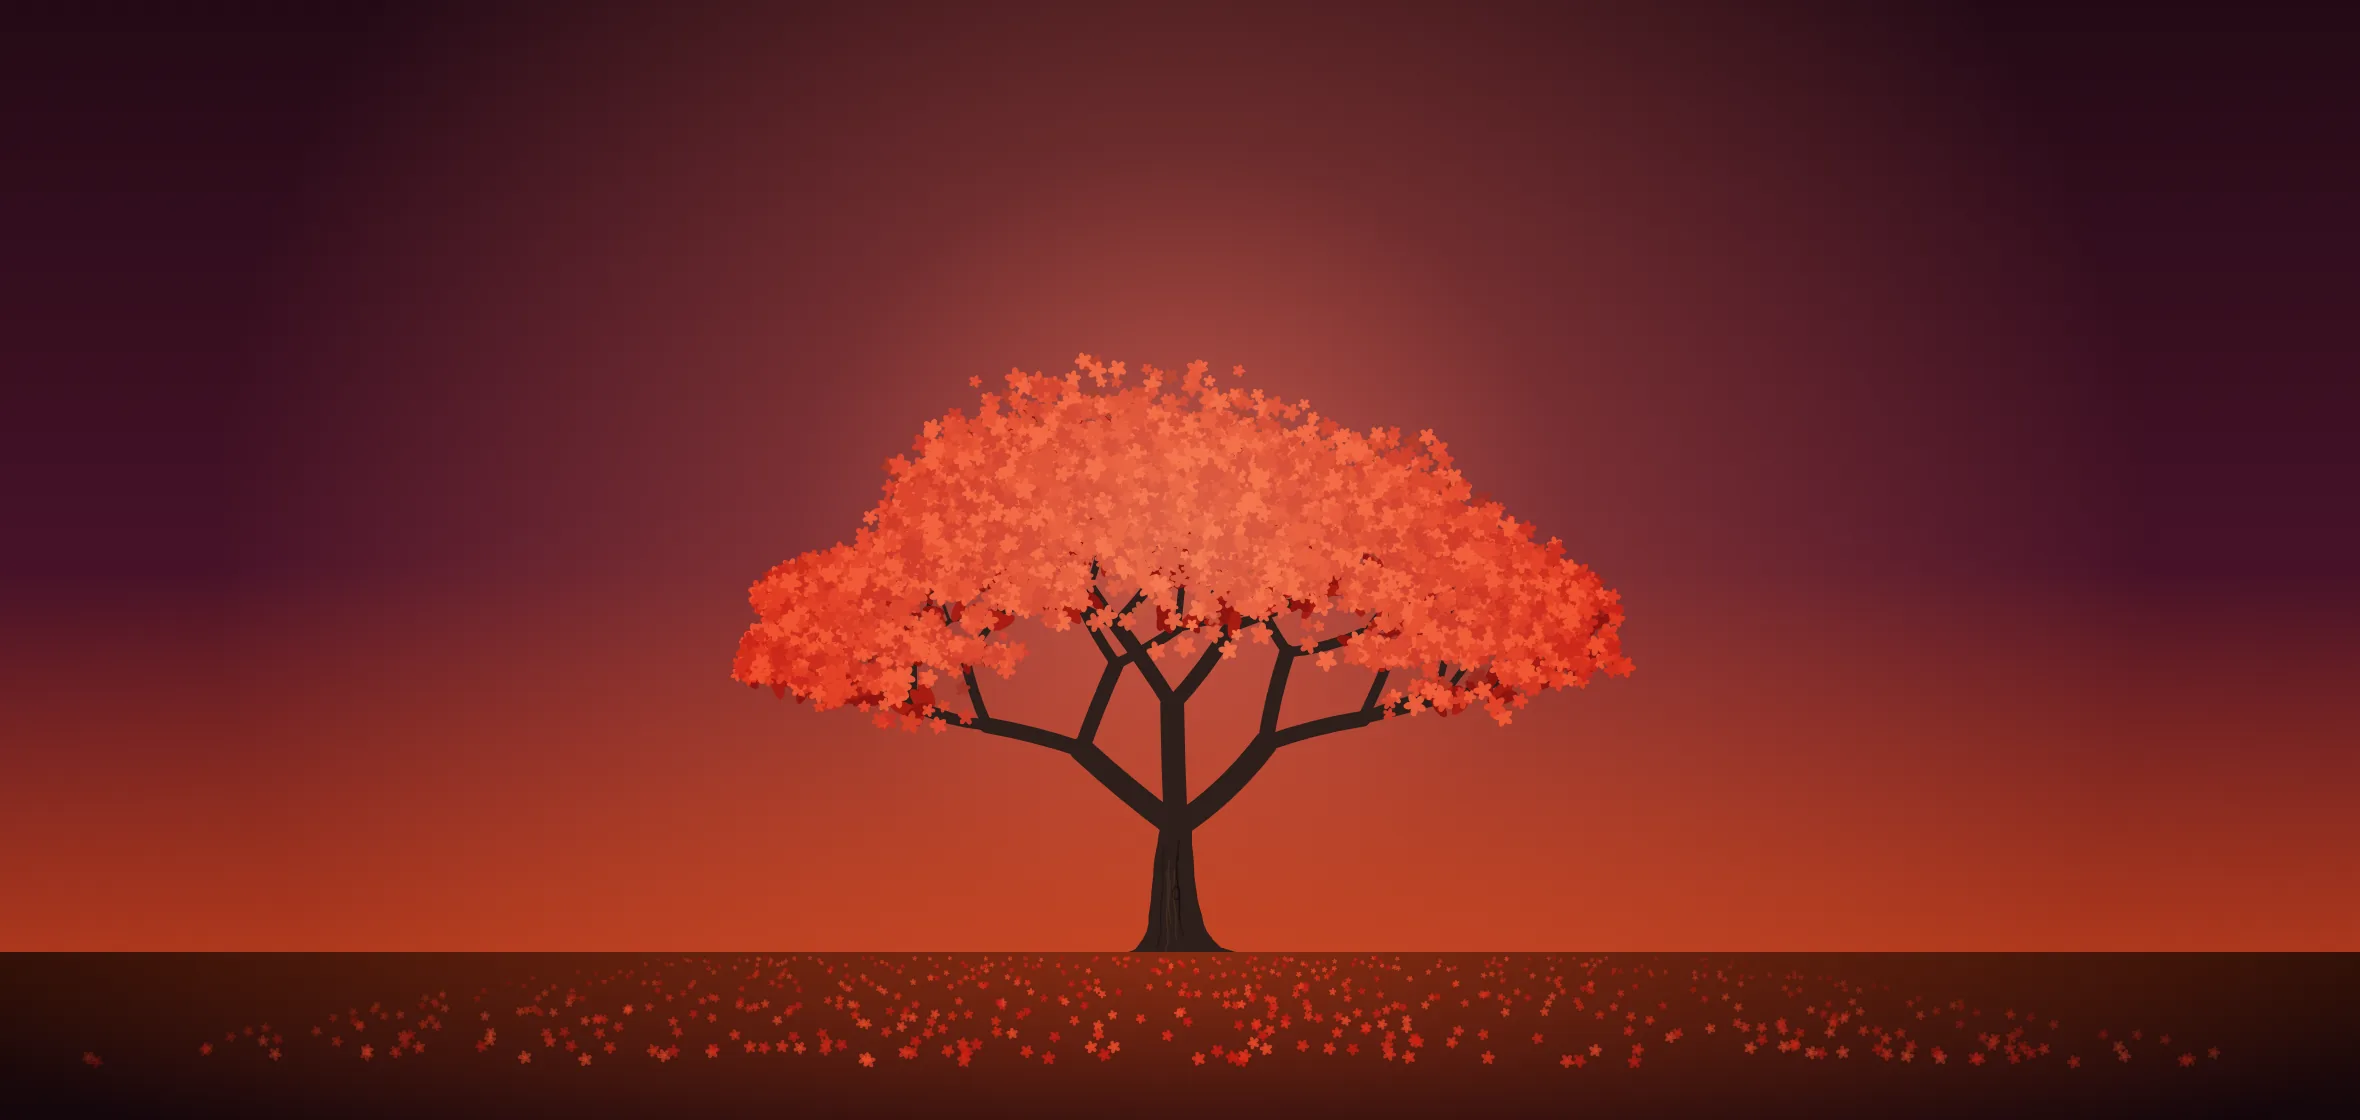
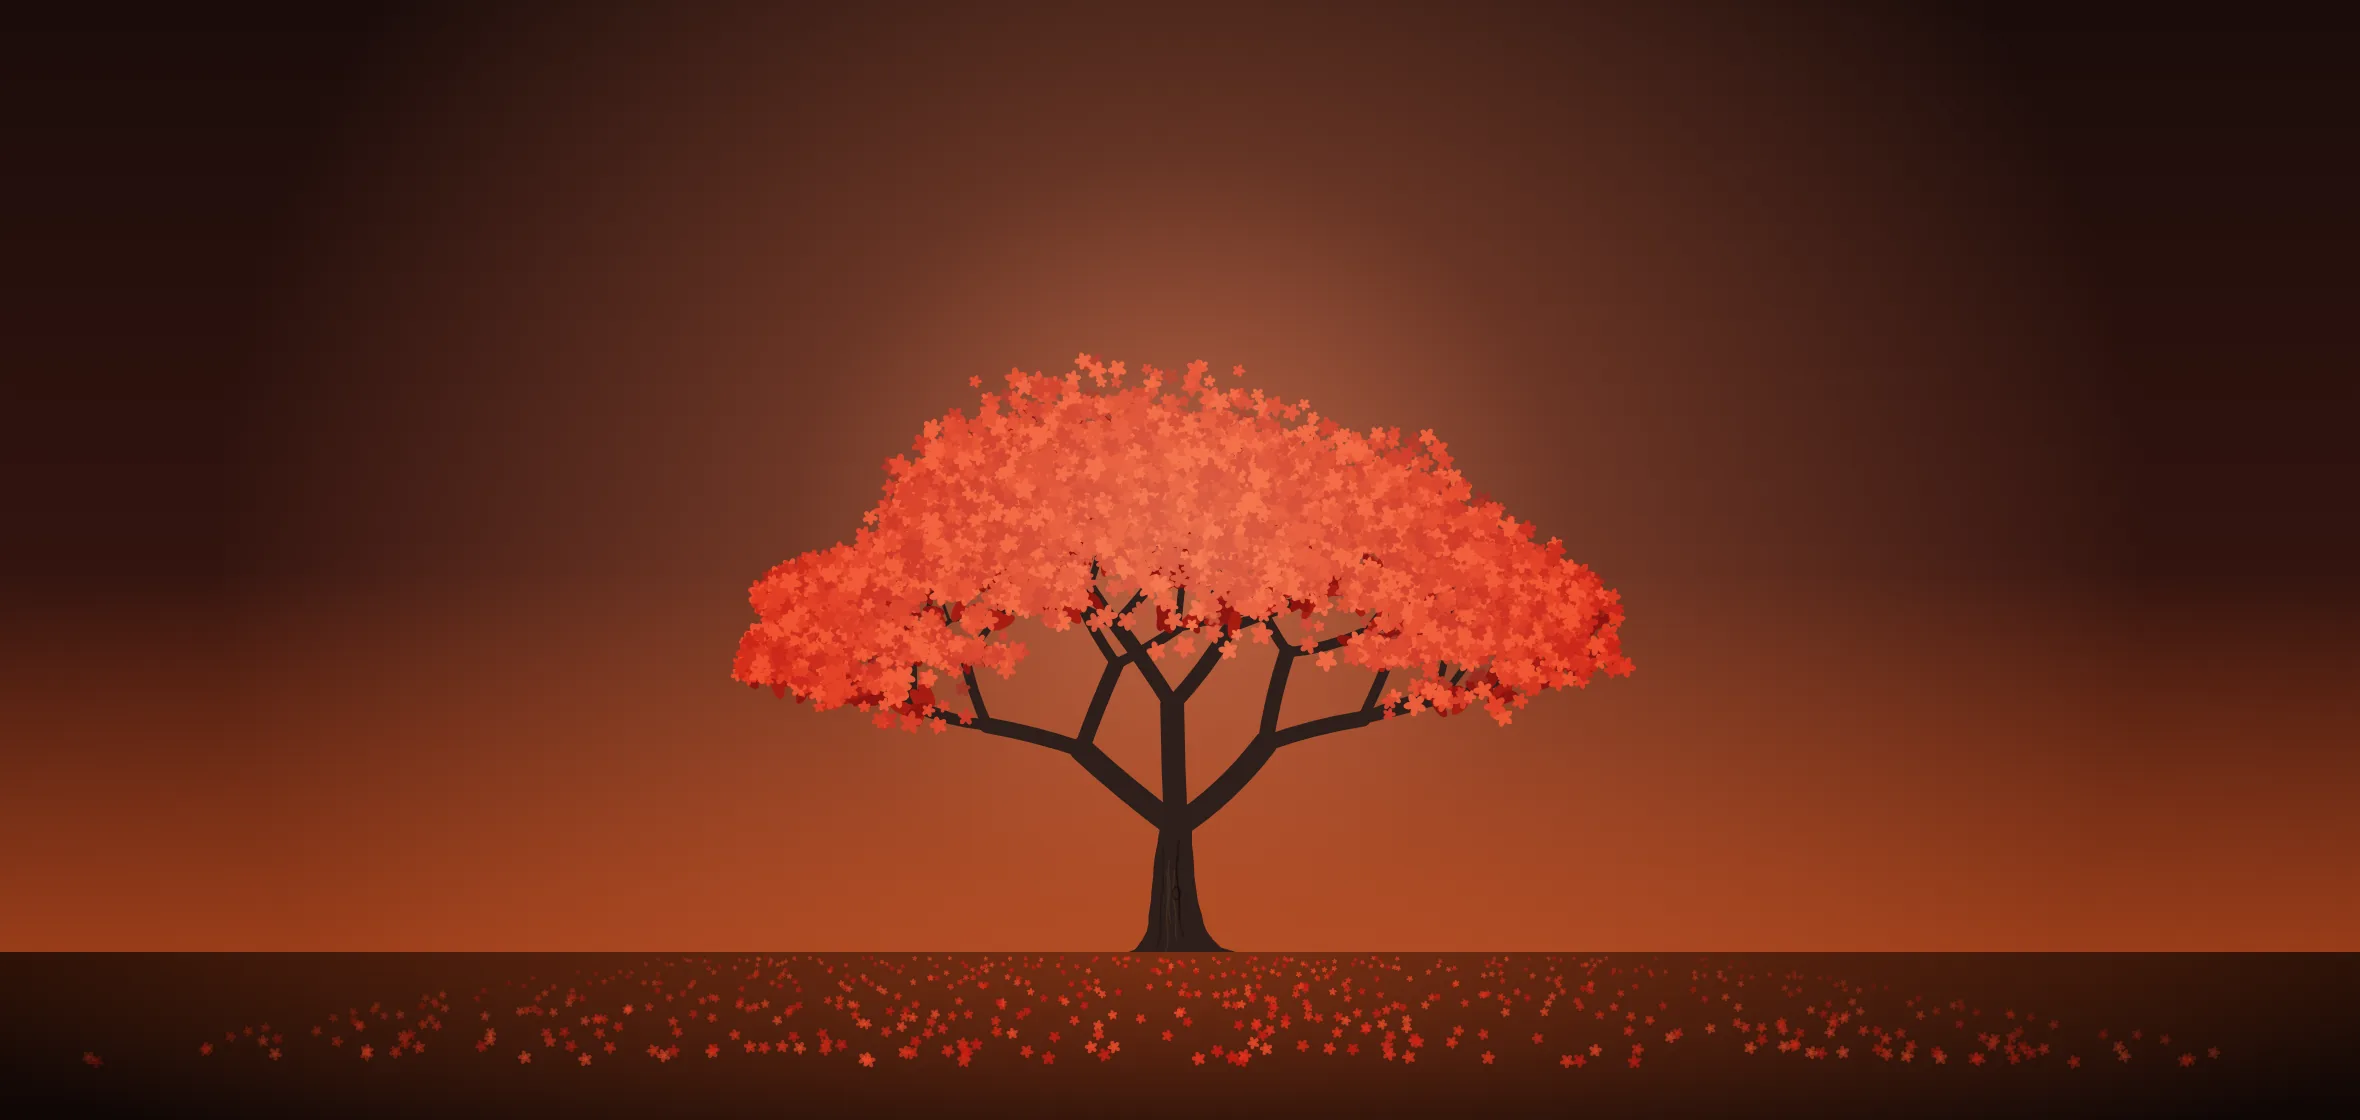
Rojo de noche: cielo brasa y café cálido, sin tonos morados; fondo de tarjetas toma el tono de cada semana
Claude-Session: https://claude.ai/code/session_01Q7t98yhsy4681UtzsgGtic

Changed region(s): [[0.8661, 0.4688, 1.0, 0.5625], [0.0, 0.4688, 0.1237, 0.5625]]

diff --git a/public/js/tree.js b/public/js/tree.js
@@ -15,7 +15,7 @@
     Azul: { name: 'Jacarandá', sci: 'Jacaranda mimosifolia', accent: '#a9b0fa', mid: '#6a6cc9', ink: ['#6a6cc9', '#9aa0ec'],
       bg: { top: '#0a1030', mid: '#152262', low: '#1c2b72', warm: '#b0572a' }, day: { top: '#9cc0ee', mid: '#c9dcf6', low: '#e5eef9', warm: '#ffdcaa' }, glow: '#8497ff', bark: '#2d1f1b' },
     Rojo: { name: 'Flamboyán', sci: 'Delonix regia', accent: '#ff8e7b', mid: '#d4392a', ink: ['#d42a18', '#ef5a44'],
-      bg: { top: '#240a16', mid: '#471228', low: '#5b192d', warm: '#c4401a' }, day: { top: '#e9b9ad', mid: '#f5d6cc', low: '#fbe9e2', warm: '#ffcf94' }, glow: '#ff7656', bark: '#2d1f1b' },
+      bg: { top: '#1b0c0a', mid: '#33140f', low: '#4a1c15', warm: '#b0461c' }, day: { top: '#e9b9ad', mid: '#f5d6cc', low: '#fbe9e2', warm: '#ffcf94' }, glow: '#ff8a5e', bark: '#2d1f1b' },
     Amarillo: { name: 'Lapacho amarillo', sci: 'Handroanthus albus', accent: '#f7cf55', mid: '#c99a10', ink: ['#e8a90c', '#f5c518'],
       bg: { top: '#221808', mid: '#40300f', low: '#573b0f', warm: '#d08a14' }, day: { top: '#efd58d', mid: '#f8e8bb', low: '#fcf4dc', warm: '#ffcf70' }, glow: '#f9cf62', bark: '#2d1f1b' },
     Blanco: { name: 'Lapacho blanco', sci: 'Tabebuia roseoalba', accent: '#f4ebf6', mid: '#b9a8c0', ink: ['#e9cfdb', '#fbf1f5'],

diff --git a/public/css/app.css b/public/css/app.css
@@ -10,7 +10,7 @@
   --glass-solid:color-mix(in srgb,var(--bg-mid) 72%,var(--bg-top));--glass2:rgba(255,255,255,.07);
   --line:rgba(255,255,255,.16);--line2:rgba(255,255,255,.32);
   --gold:#f0a830;--gold-hi:#ffd700;--gold-ink:#ffd700;
-  --ink:#fff;--well:rgba(0,0,0,.22);--base:rgba(22,10,40,.62);--champ:rgba(0,0,0,.4);--champ2:rgba(0,0,0,.6);--card-mix:42%;
+  --ink:#fff;--well:rgba(0,0,0,.22);--base:color-mix(in srgb,var(--bg-top) 70%,transparent);--champ:rgba(0,0,0,.4);--champ2:rgba(0,0,0,.6);--card-mix:42%;
   /* Color de la semana — lo pisa app.js */
   --wk-accent:#c9a0f0;--wk:var(--wk-accent);--wk-mid:#9b59b6;--on-wk:#12091c;
   --radius:18px;

diff --git a/public/sw.js b/public/sw.js
@@ -1,7 +1,7 @@
 // Service worker: guarda la app para abrirla sin conexión.
 // Red primero (así siempre ves la última versión publicada), caché si no hay red.
 // Nunca se guarda /api/: el contenido y los registros viajan con la clave y se guardan en la app.
-const CACHE = 'sunset-v56';
+const CACHE = 'sunset-v57';
 const SHELL = [
   './',
   'index.html',
